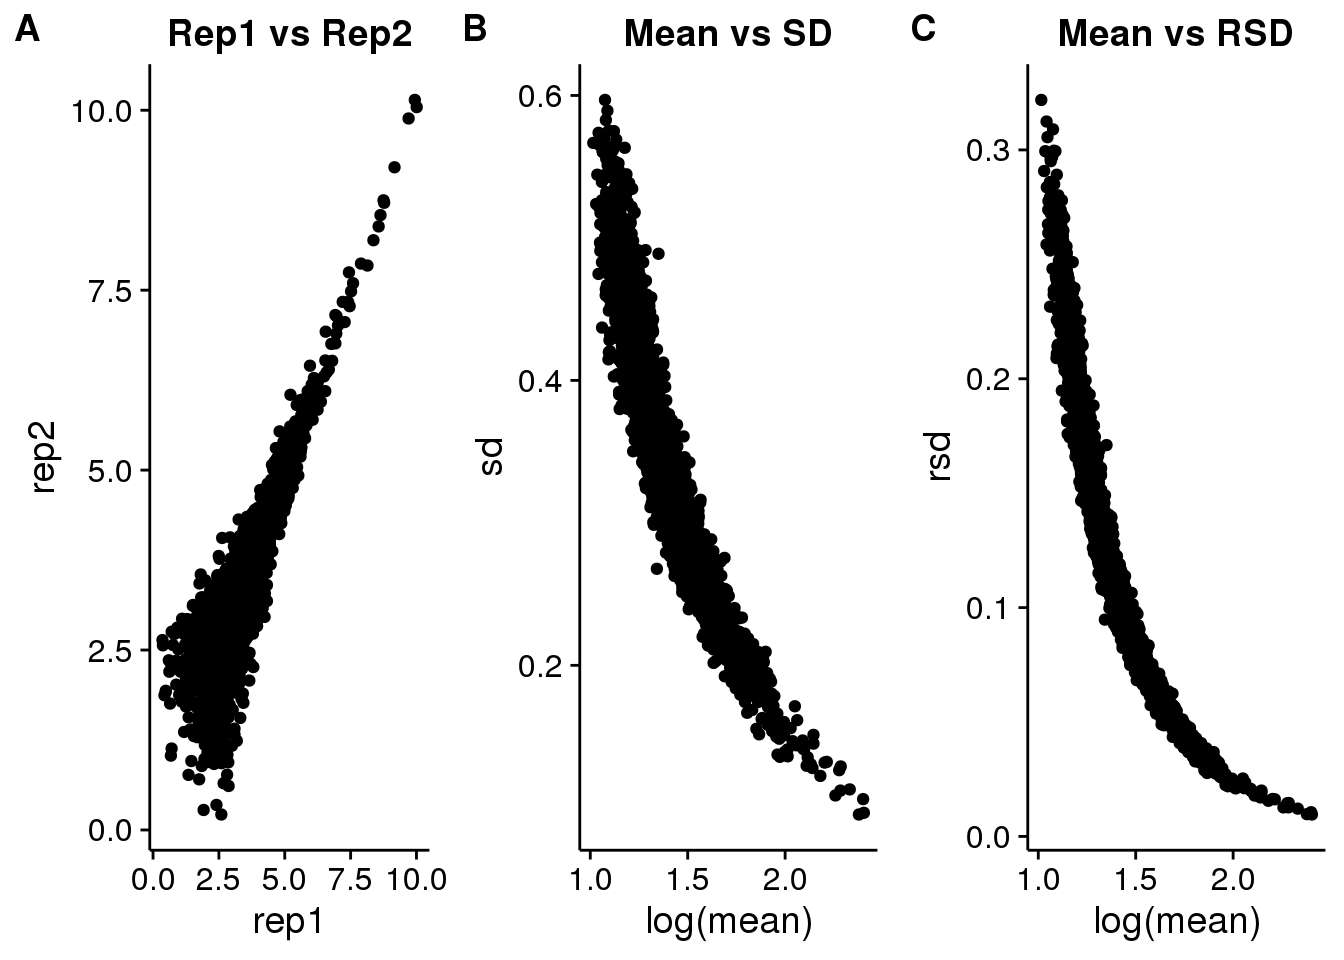
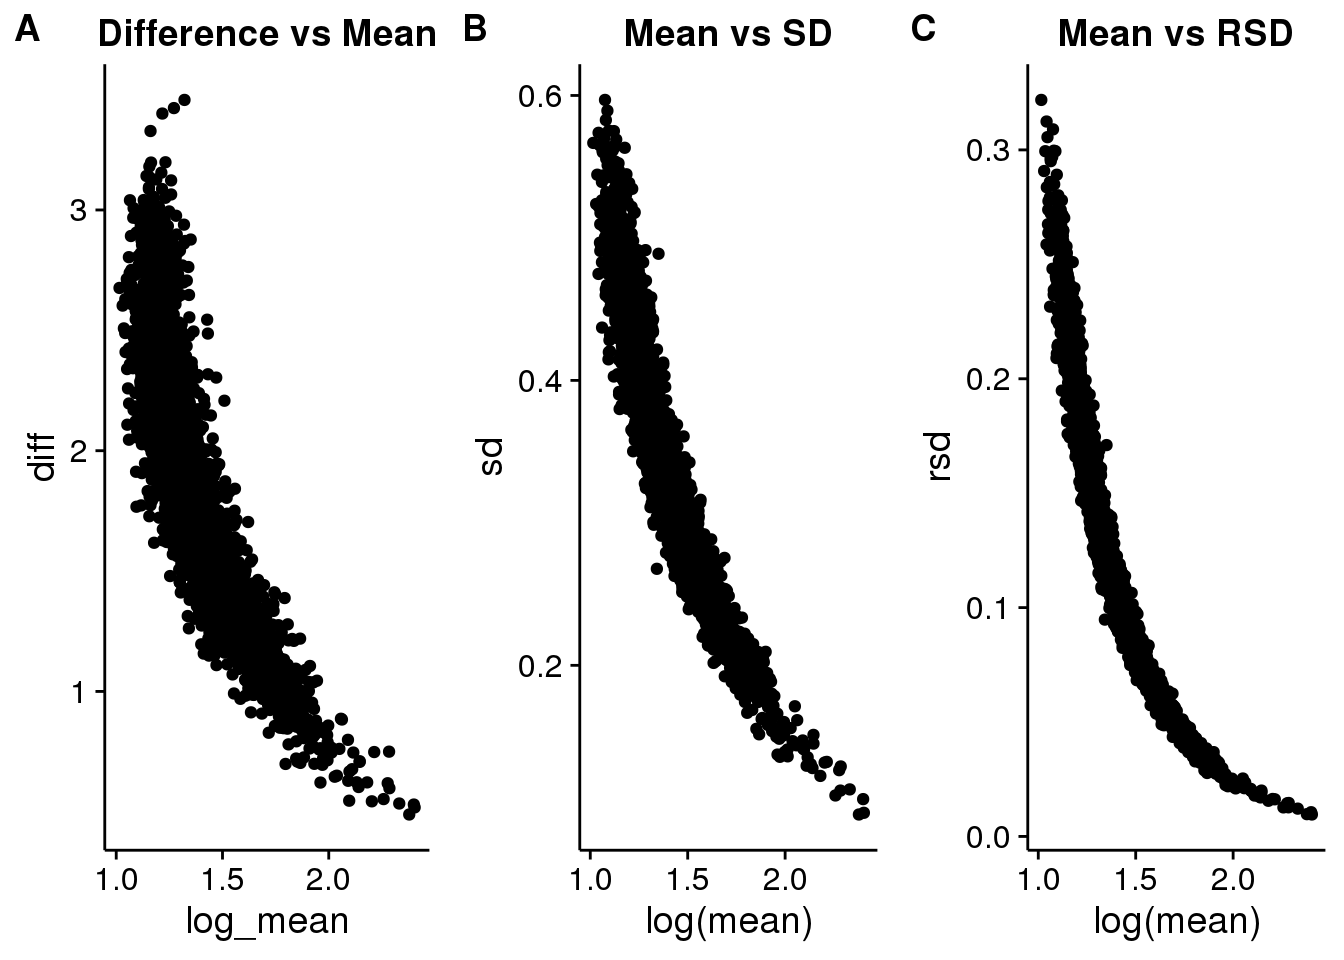
render with the range plot instead of rep plot

diff --git a/glbio2016_manuscript.knit.md b/glbio2016_manuscript.knit.md
@@ -1,7 +1,7 @@
 ---
 title: "Visualizing Effect of Data Transformations on Errors"
 author: "Robert M Flight"
-date: "2016-01-06 10:45:09"
+date: "2016-01-06 11:03:38"
 output: html_document
 ---
 
@@ -144,6 +144,12 @@ Applying the **log-transform** to the data results in:
 
 ### Proportional Error
 
+
+```
+## Warning in log1p(c(-0.0888430520825409, 0.550408451215672,
+## 0.900843956326006, : NaNs produced
+```
+
 <img src="glbio2016_manuscript_files/figure-html/log_prop_error-1.png" title="" alt="" width="672" />
 
 ### Mixed Error
@@ -212,6 +218,7 @@ a higher root may be useful.
 |ggplot2                     |*  |2.0.0      |2015-12-18 |CRAN (R 3.2.2)                           |
 |GlobalOptions               |   |0.0.8      |2015-08-18 |CRAN (R 3.2.2)                           |
 |gtable                      |   |0.1.2      |2012-12-05 |CRAN (R 3.2.2)                           |
+|highr                       |   |0.5.1      |2015-09-18 |CRAN (R 3.2.2)                           |
 |htmltools                   |   |0.2.6      |2014-09-08 |CRAN (R 3.2.2)                           |
 |knitr                       |   |1.11       |2015-08-14 |CRAN (R 3.2.2)                           |
 |labeling                    |   |0.3        |2014-08-23 |CRAN (R 3.2.2)                           |
@@ -225,6 +232,7 @@ a higher root may be useful.
 |Rcpp                        |   |0.12.2     |2015-11-15 |CRAN (R 3.2.2)                           |
 |rjson                       |   |0.2.15     |2014-11-03 |CRAN (R 3.2.2)                           |
 |rmarkdown                   |   |0.8.1      |2015-10-10 |CRAN (R 3.2.2)                           |
+|rstudioapi                  |   |0.3.1      |2015-04-07 |CRAN (R 3.2.2)                           |
 |scales                      |   |0.3.0      |2015-08-25 |CRAN (R 3.2.2)                           |
 |shape                       |   |1.4.2      |2014-11-05 |CRAN (R 3.2.2)                           |
 |stringi                     |   |1.0-1      |2015-10-22 |CRAN (R 3.2.2)                           |
